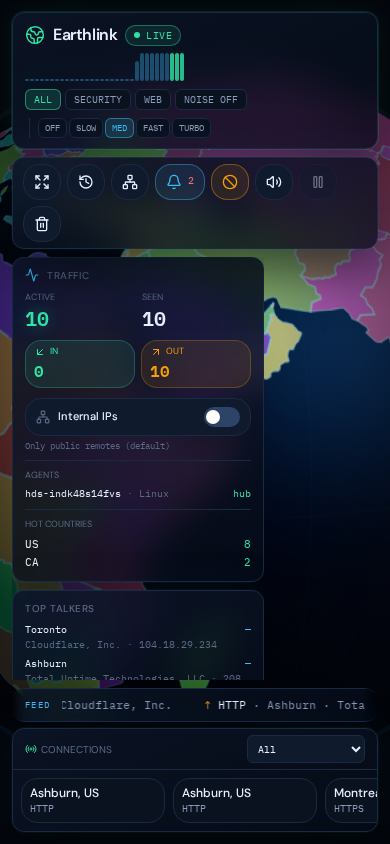
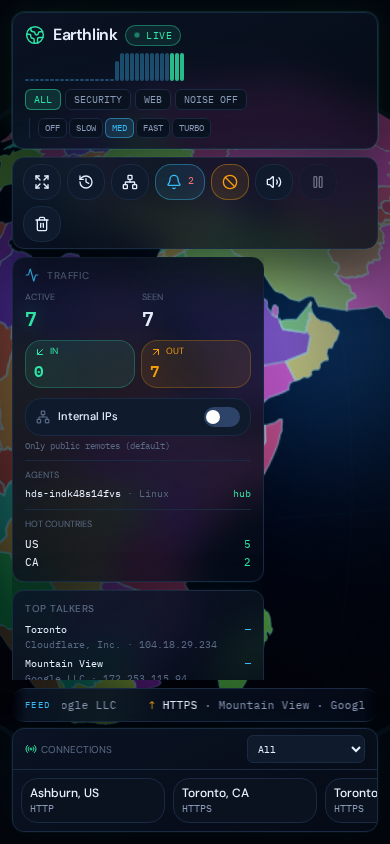
docs: refresh screenshots + LAN hub tips for multi-OS agents
Capture current UI (wide Connections, Agents, spin). Document LAN vs
public EARTHLINK_HUB; Windows/Linux success logs; skip-conntrack note.

diff --git a/README.md b/README.md
@@ -4,7 +4,7 @@
 
 Self-host on your server: every public TCP / UDP / DNS / ping peer lights up as a pin and arc to your home location, hangs around, then fades. Inbound is green, outbound is amber.
 
-**Agents for Linux, macOS, and Windows** — run a hub on one machine and optional edge agents on others.
+**Agents for Linux, macOS, and Windows** — run a hub on one machine and optional edge agents on others. Same LAN? Point agents at the hub’s **private IP**. Off-site? Use the public IP or VPN.
 
 <p align="center">
   <img src="docs/screenshots/desktop-globe.png" alt="Earthlink desktop — NOC globe with live traffic" width="100%" />
@@ -12,13 +12,17 @@ Self-host on your server: every public TCP / UDP / DNS / ping peer lights up as 
 
 | Desktop | Mobile |
 | --- | --- |
-| <img src="docs/screenshots/desktop-filtered.png" alt="Earthlink with spin presets and panels" /> | <img src="docs/screenshots/mobile.png" alt="Earthlink on mobile" /> |
+| <img src="docs/screenshots/desktop-filtered.png" alt="Earthlink wider Connections panel, spin, agents" /> | <img src="docs/screenshots/mobile.png" alt="Earthlink on mobile" /> |
 
 ---
 
-## Deploy on a remote Linux server
+## Deploy
 
-**Full guide:** **[INSTALL.md](./INSTALL.md)** · **Agents:** **[docs/AGENTS.md](./docs/AGENTS.md)**
+| Doc | Contents |
+| --- | --- |
+| **[INSTALL.md](./INSTALL.md)** | Linux hub, systemd, firewall, env, conntrack |
+| **[docs/AGENTS.md](./docs/AGENTS.md)** | Edge agents on **Linux · macOS · Windows** (scripts, boot, LAN tips) |
+| **[agents/](./agents/)** | Helper runners (`run-linux.sh`, `run-macos.sh`, `run-windows.ps1`) |
 
 ### Hub (globe + this machine’s traffic)
 
@@ -28,33 +32,32 @@ cd earthlink
 npm install
 npm run build
 
-export EARTHLINK_AGENT_TOKEN=change-me
 export EARTHLINK_HOST_ID=hub-linux
+# export EARTHLINK_AGENT_TOKEN=change-me   # recommended if agents join
 HOST=0.0.0.0 PORT=8080 npm start
 ```
 
 Open `http://YOUR_SERVER:8080` — badge should read **LIVE**.
 
-### Edge agent (another Linux box)
+### Edge agents (no build)
 
-```bash
-git clone https://github.com/Og1Kenobi/earthlink.git
-cd earthlink
-# no build needed for agent-only
+**Important:** from another machine on the **same LAN**, use the hub’s **internal** address  
+(e.g. `http://10.11.12.62:8080`). The public WAN IP often times out or hairpins.
 
-export EARTHLINK_HUB=http://HUB_IP:8080
-export EARTHLINK_HOST_ID=edge-linux-1
-export EARTHLINK_AGENT_TOKEN=change-me
-npm run agent
+| OS | Quick start |
+| --- | --- |
+| **Linux** | `export EARTHLINK_HUB=http://10.11.12.62:8080` · `bash agents/run-linux.sh` · systemd |
+| **macOS** | same env · `bash agents/run-macos.sh` · launchd |
+| **Windows** | `$env:EARTHLINK_HUB="http://10.11.12.62:8080"` · `.\agents\run-windows.ps1` · Task Scheduler |
+
+Success looks like:
+
+```text
+[earthlink-agent] Windows → http://10.11.12.62:8080/api/traffic/ingest as desktop-win
+[earthlink-agent] pushed 60 sockets · agents=3
 ```
 
-| OS | Local hub collector | Edge agent |
-| --- | --- | --- |
-| **Linux** | `/proc` · `ss` · `conntrack` | `bash agents/run-linux.sh` · systemd |
-| **macOS** | `netstat` · `lsof` | `bash agents/run-macos.sh` · launchd |
-| **Windows** | `netstat -ano` · `tasklist` | `.\agents\run-windows.ps1` · Task Scheduler |
-
-**Full agent deploy (all OS):** **[docs/AGENTS.md](./docs/AGENTS.md)** · helpers in [`agents/`](./agents/)
+Globe → **Traffic → Agents** lists each host (hub + remotes).
 
 ---
 
@@ -65,7 +68,7 @@ npm run agent
 | **Top-left** | Brand, LIVE, sparkline, security presets, **globe spin** (Off→Turbo) |
 | **Top-right** | Kiosk · replay · LAN · alerts · mute · sound · tools |
 | **Left stack** | Traffic (+ Internal IPs + **Agents**) · Talkers · Alerts · Home · Muted |
-| **Right** | Connections + filter |
+| **Right** | **Connections** (wide panel) + filter |
 | **Bottom** | Auto-scrolling feed marquee |
 
 ---
@@ -73,7 +76,7 @@ npm run agent
 ## Features
 
 - **Real host traffic** — OS-native collectors (Linux / macOS / Windows)
-- **Remote agents** — push sockets into one hub (`POST /api/traffic/ingest`)
+- **Remote multi-OS agents** — push into one hub (`POST /api/traffic/ingest`)
 - **Inbound + outbound** — green in, amber out
 - **Process names** · **ASN / org** · bandwidth arcs · heat trails
 - **Security presets** · **spin speed** · **mute** · **LAN toggle**
@@ -99,6 +102,12 @@ HOST=0.0.0.0 PORT=8080 npm start
 sudo apt install -y conntrack
 echo 'YOUR_USER ALL=(root) NOPASSWD: /usr/sbin/conntrack' | sudo tee /etc/sudoers.d/earthlink-conntrack
 sudo chmod 440 /etc/sudoers.d/earthlink-conntrack
+```
+
+Or skip sudo probes entirely:
+
+```bash
+export EARTHLINK_SKIP_CONNTRACK_SUDO=1
 ```
 
 ---
@@ -128,4 +137,4 @@ npm run typecheck
 
 Stack: React 19, Vite, TanStack Start, Three.js / R3F, Tailwind v4.
 
-Screenshots: [`docs/screenshots/`](./docs/screenshots/).
+Screenshots: [`docs/screenshots/`](./docs/screenshots/) (refreshed with current UI).

diff --git a/docs/AGENTS.md b/docs/AGENTS.md
@@ -44,6 +44,43 @@ brew install node@22
 
 ---
 
+## LAN vs public IP (read this)
+
+Agents must reach the hub over a path that works from *that* machine:
+
+| Where the agent is | Set `EARTHLINK_HUB` to |
+| --- | --- |
+| Same LAN as hub | **Internal IP** — e.g. `http://10.11.12.62:8080` |
+| Off-site / remote internet | Public IP or DNS — e.g. `http://75.x.x.x:8080` (firewall open) |
+| Anywhere via VPN | VPN address of the hub |
+
+**Symptom:** `push failed: … timeout` while `curl` to the public IP is slow or hangs  
+**Fix:** switch to the hub’s LAN IP when you are on the same network.
+
+```powershell
+# Windows on the LAN
+$env:EARTHLINK_HUB = "http://10.11.12.62:8080"
+$env:EARTHLINK_HOST_ID = "desktop-win"
+.\agents\run-windows.ps1
+```
+
+```bash
+# Linux on the LAN
+export EARTHLINK_HUB=http://10.11.12.62:8080
+export EARTHLINK_HOST_ID=ubuntuopti001
+bash agents/run-linux.sh
+```
+
+Find the hub LAN IP on the hub host:
+
+```bash
+hostname -I
+# or: ip -4 addr
+```
+
+
+---
+
 ## Shared environment variables
 
 Set these on **every edge agent**:
@@ -454,6 +491,8 @@ Lists hub + remotes (`hostId`, `os`, `osLabel`, `socketCount`, `stale`, `lastSee
 | Windows: few process names | Run elevated or accept `netstat` without names |
 | macOS: empty process | Normal without `lsof` rights; sockets still work |
 | Linux: no DNS/ping | Install `conntrack` + sudoers (above) |
+| Linux: `sudo` auth spam in journal | `export EARTHLINK_SKIP_CONNTRACK_SUDO=1` or NOPASSWD conntrack |
+| `push failed` timeout on LAN | Use hub **LAN** IP, not public WAN IP |
 | Duplicate host in UI | Give each agent a unique `EARTHLINK_HOST_ID` |
 
 ---

diff --git a/agents/README.md b/agents/README.md
@@ -4,12 +4,14 @@ Push live sockets from **Linux**, **macOS**, or **Windows** into an Earthlink hu
 
 **Full instructions (all OS):** [docs/AGENTS.md](../docs/AGENTS.md)
 
-## Quick start
+## Quick start (same LAN as hub)
+
+Use the hub’s **internal** IP (example `10.11.12.62`):
 
 ```bash
-export EARTHLINK_HUB=http://HUB_IP:8080
+export EARTHLINK_HUB=http://10.11.12.62:8080
 export EARTHLINK_HOST_ID=my-machine
-export EARTHLINK_AGENT_TOKEN=change-me   # if hub requires it
+# export EARTHLINK_AGENT_TOKEN=change-me
 ```
 
 | OS | Command |
@@ -20,4 +22,11 @@ export EARTHLINK_AGENT_TOKEN=change-me   # if hub requires it
 | Windows (CMD) | `agents\run-windows.cmd` |
 | Any | `npm run agent` / `node agents/earthlink-agent.mjs` |
 
-Always-on: systemd (Linux), launchd (macOS), Task Scheduler / NSSM (Windows) — see [docs/AGENTS.md](../docs/AGENTS.md).
+Success:
+
+```text
+[earthlink-agent] … → http://10.11.12.62:8080/api/traffic/ingest as my-machine
+[earthlink-agent] pushed N sockets · agents=…
+```
+
+Always-on: systemd (Linux), launchd (macOS), Task Scheduler (Windows) — see [docs/AGENTS.md](../docs/AGENTS.md).

diff --git a/INSTALL.md b/INSTALL.md
@@ -13,6 +13,8 @@ You can run:
 
 Agents guide: **[docs/AGENTS.md](./docs/AGENTS.md)**
 
+> **LAN tip:** machines on the same network should set `EARTHLINK_HUB=http://HUB_LAN_IP:8080` (not the public WAN IP). See docs/AGENTS.md → *LAN vs public IP*.
+
 ---
 
 ## Requirements (hub)
